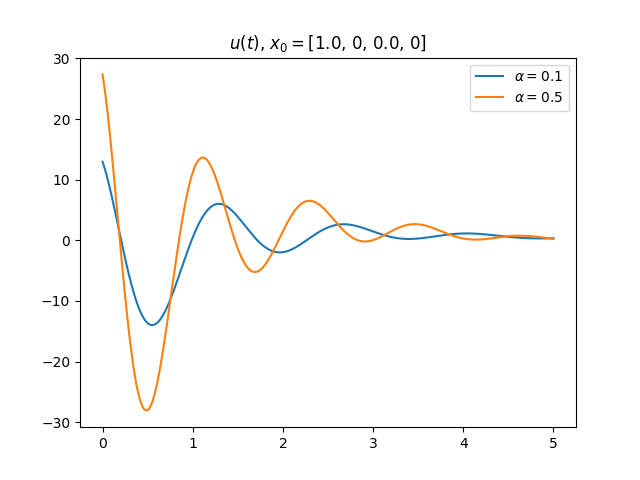
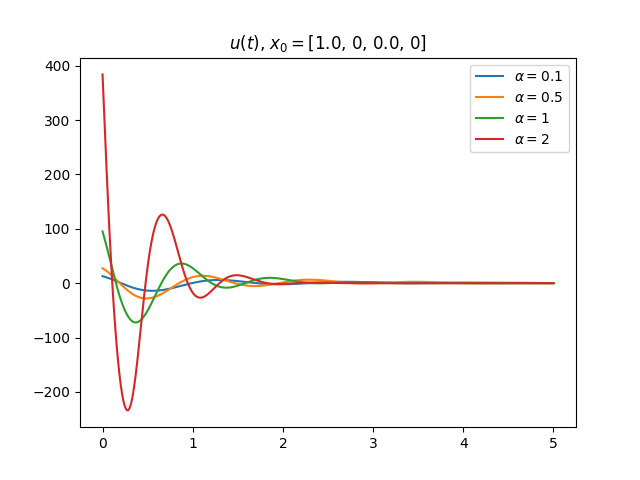
chapter 4 task 2 new reports

diff --git a/kurs/chapter4.py b/kurs/chapter4.py
@@ -143,14 +143,13 @@ def draw_compare_nonlinear_alphas(A, B, x0, time, alphas):
             ax[i].legend()
 
         print(
-            f'${alpha}$ & {round(np.abs(resp_nonlin.states[0]).max(), 2)} & {round(np.abs(resp_nonlin.states[2]).max(), 2)} & {round(np.abs(k @ resp_nonlin.states).max(), 1)} \\\\')
+            f'alpha: ${alpha}$  max x: {round(np.abs(resp_nonlin.states[0]).max(), 2)} max phi:  {round(np.abs(resp_nonlin.states[2]).max(), 2)}  max u: {round(np.abs(k @ resp_nonlin.states).max(), 1)} \\\\')
     plt.savefig(f'{save_path}/task4_2_{"_".join([str(x) for x in x0])}.png')
     plt.close()
 
     plt.title(f"$u(t)$, $x_0=${x0}")
-    plt.plot(time, us[0], label=f"$\\alpha={alphas[0]}$")
-    plt.plot(time, us[1], label=f"$\\alpha={alphas[1]}$")
-    # plt.plot(time, us[2], label=f"$\\alpha={alphas[2]}$")
+    for i in range(len(alphas)):
+        plt.plot(time, us[i], label=f"$\\alpha={alphas[i]}$")
     plt.legend()
     plt.savefig(f'{save_path}/task4_2_u_{"_".join([str(x) for x in x0])}.png')
 
